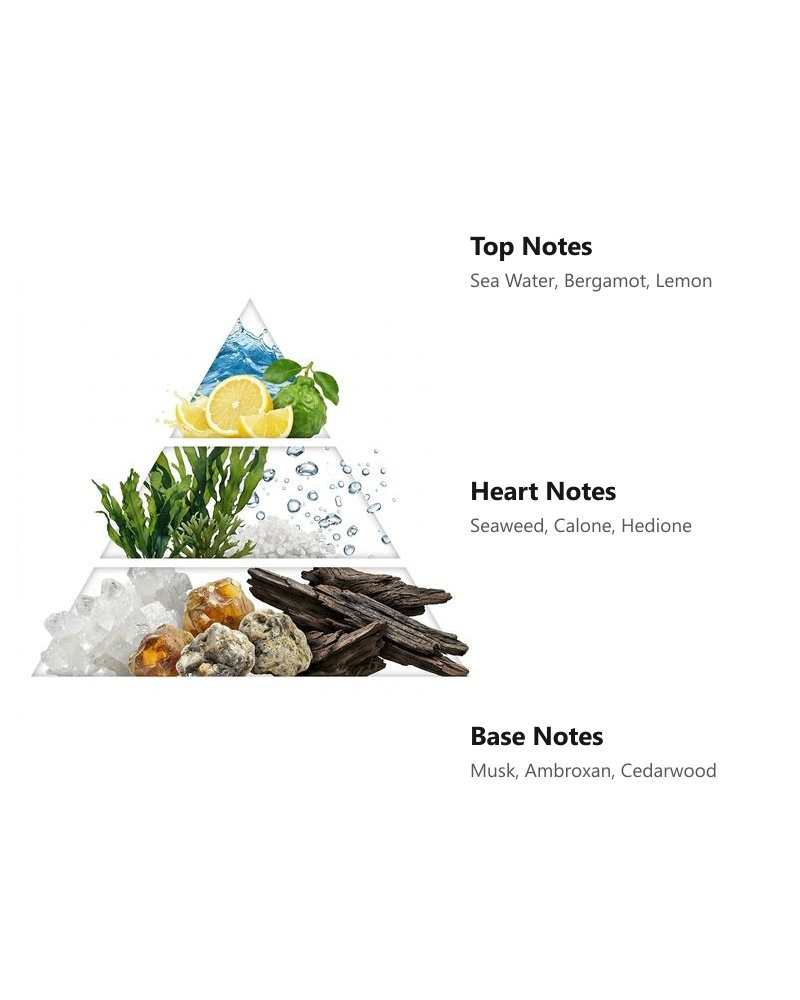
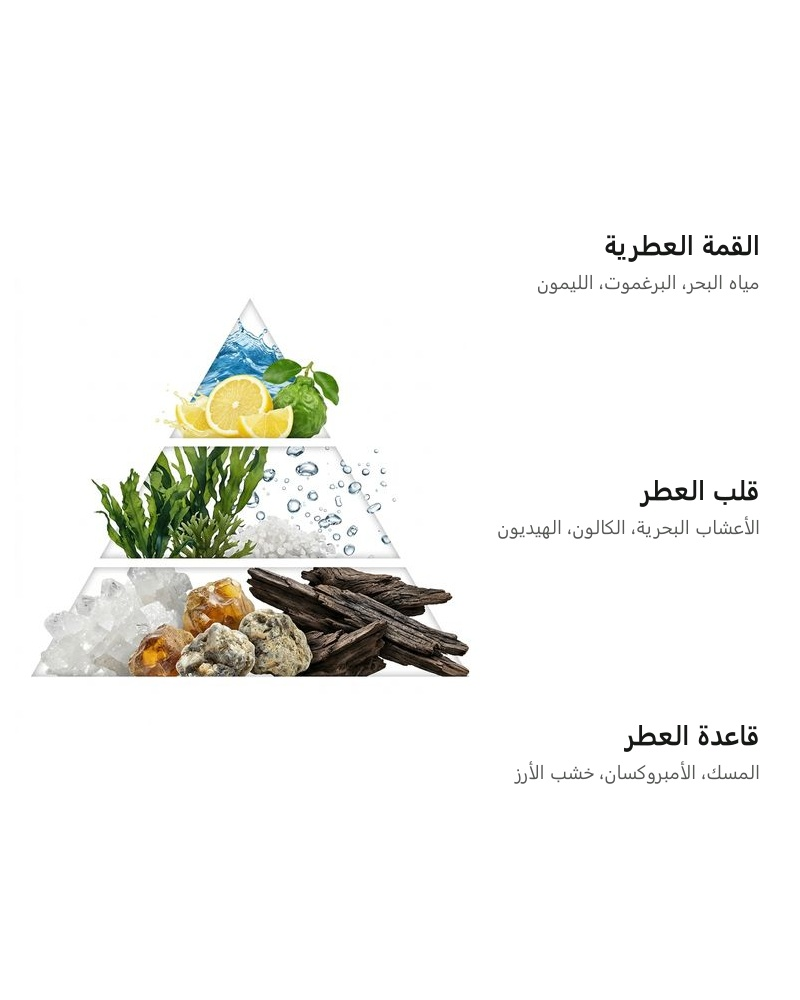
feat: localize olfactory pyramid composite images to Arabic

Changed region(s): [[0.5938, 0.465, 0.9688, 0.558], [0.5938, 0.217, 0.9375, 0.31], [0.5938, 0.713, 0.9688, 0.806]]

diff --git a/scripts/generate-pyramids.js b/scripts/generate-pyramids.js
@@ -6,113 +6,119 @@ const products = [
   {
     slug: 'fortis-rex',
     sourceImg: 'public/pyramids/fortis-rex.jpg',
-    topNotes: 'Sea Notes, Grapefruit, Mandarin',
-    heartNotes: 'Bay Leaf, Jasmine',
-    baseNotes: 'Ambergris, Guaiac Wood, Oakmoss',
+    topNotes: 'نسيم البحر، الجريب فروت، المندرين',
+    heartNotes: 'ورق الغار، الياسمين',
+    baseNotes: 'العنبر الأشهب، خشب الغاياك، البلوط',
   },
   {
     slug: 'sultan-dore',
     sourceImg: 'public/pyramids/sultan-dore.jpg',
-    topNotes: 'Pineapple, Grapefruit, Bergamot',
-    heartNotes: 'Cedarwood, Patchouli, Jasmine',
-    baseNotes: 'Oakmoss, Dry Woody Notes',
+    topNotes: 'الأناناس، الجريب فروت، البرغموت',
+    heartNotes: 'خشب الأرز، الباتشولي، الياسمين',
+    baseNotes: 'طحلب البلوط، الأخشاب الجافة',
   },
   {
     slug: 'marin-bleu',
     sourceImg: 'public/pyramids/marin-bleu.jpg',
-    topNotes: 'Sea Water, Bergamot, Lemon',
-    heartNotes: 'Seaweed, Calone, Hedione',
-    baseNotes: 'Musk, Ambroxan, Cedarwood',
+    topNotes: 'مياه البحر، البرغموت، الليمون',
+    heartNotes: 'الأعشاب البحرية، الكالون، الهيديون',
+    baseNotes: 'المسك، الأمبروكسان، خشب الأرز',
   },
   {
     slug: 'frost-line',
     sourceImg: 'public/pyramids/frost-line.jpg',
-    topNotes: 'Black Currant, Citron, Mint, Lemon',
-    heartNotes: 'Basil, Rose, Coriander',
-    baseNotes: 'Dates, Fig, Ambrette',
+    topNotes: 'الكشمش الأسود، الأترج، النعناع',
+    heartNotes: 'الريحان، الورد، الكزبرة',
+    baseNotes: 'التمر، التين، بذور الأمبريت',
   },
   {
     slug: 'blanc-pur',
     sourceImg: 'public/pyramids/blanc-pur.jpg',
-    topNotes: 'Grapefruit, Rosemary, Cardamom',
-    heartNotes: 'Tuberose, Ylang-Ylang',
-    baseNotes: 'Suede, Leather, Cedarwood',
+    topNotes: 'الجريب فروت، إكليل الجبل، الهيل',
+    heartNotes: 'مسك الروم، الإيلنغ',
+    baseNotes: 'جلد الشامواه، خشب الأرز',
   },
   {
     slug: 'mangue-epicee',
     sourceImg: 'public/pyramids/mangue-epicee.jpg',
-    topNotes: 'Mango, Lemon, Ginger, Berries',
-    heartNotes: 'Coumarin, Jasmine, Dry Woods',
-    baseNotes: 'Amber, Agarwood (Oud), Musk',
+    topNotes: 'المانجو، الليمون، الزنجبيل، التوت',
+    heartNotes: 'الكومارين، الياسمين، الأخشاب',
+    baseNotes: 'العنبر، خشب العود، المسك',
   },
 ];
 
-async function generateSinglePyramidImage(p) {
+async function generateArabicPyramids() {
   const width = 800;
   const height = 1000;
 
-  // Resize pyramid to fit left side with clean white background
-  const pyramidResized = await sharp(p.sourceImg)
-    .resize(470, 780, { fit: 'contain', background: { r: 255, g: 255, b: 255, alpha: 1 } })
-    .toBuffer();
+  for (const p of products) {
+    const pyramidResized = await sharp(p.sourceImg)
+      .resize(470, 780, { fit: 'contain', background: { r: 255, g: 255, b: 255, alpha: 1 } })
+      .toBuffer();
 
-  const svgText = `
-  <svg width="${width}" height="${height}" viewBox="0 0 ${width} ${height}" xmlns="http://www.w3.org/2000/svg">
-    <style>
-      .tier-title {
-        font-family: 'Segoe UI', -apple-system, BlinkMacSystemFont, Roboto, sans-serif;
-        font-size: 26px;
-        font-weight: 700;
-        fill: #161816;
-        letter-spacing: -0.2px;
-      }
-      .tier-notes {
-        font-family: 'Segoe UI', -apple-system, BlinkMacSystemFont, Roboto, sans-serif;
-        font-size: 19px;
-        font-weight: 400;
-        fill: #555855;
-        line-height: 1.4;
-      }
-    </style>
+    const svgText = `
+    <svg width="${width}" height="${height}" viewBox="0 0 ${width} ${height}" xmlns="http://www.w3.org/2000/svg">
+      <style>
+        .tier-title {
+          font-family: 'Segoe UI', Tahoma, Arial, sans-serif;
+          font-size: 27px;
+          font-weight: 700;
+          fill: #161816;
+          text-anchor: end;
+        }
+        .tier-notes {
+          font-family: 'Segoe UI', Tahoma, Arial, sans-serif;
+          font-size: 19px;
+          font-weight: 400;
+          fill: #555855;
+          text-anchor: end;
+        }
+      </style>
 
-    <!-- Top Notes Tier -->
-    <g transform="translate(470, 255)">
-      <text class="tier-title" x="0" y="0">Top Notes</text>
-      <text class="tier-notes" x="0" y="32">${escapeXml(p.topNotes)}</text>
-    </g>
+      <!-- Top Notes -->
+      <g transform="translate(760, 255)">
+        <text class="tier-title" x="0" y="0">القمة العطرية</text>
+        <text class="tier-notes" x="0" y="34">${escapeXml(p.topNotes)}</text>
+      </g>
 
-    <!-- Heart Notes Tier -->
-    <g transform="translate(470, 500)">
-      <text class="tier-title" x="0" y="0">Heart Notes</text>
-      <text class="tier-notes" x="0" y="32">${escapeXml(p.heartNotes)}</text>
-    </g>
+      <!-- Heart Notes -->
+      <g transform="translate(760, 500)">
+        <text class="tier-title" x="0" y="0">قلب العطر</text>
+        <text class="tier-notes" x="0" y="34">${escapeXml(p.heartNotes)}</text>
+      </g>
 
-    <!-- Base Notes Tier -->
-    <g transform="translate(470, 745)">
-      <text class="tier-title" x="0" y="0">Base Notes</text>
-      <text class="tier-notes" x="0" y="32">${escapeXml(p.baseNotes)}</text>
-    </g>
-  </svg>
-  `;
+      <!-- Base Notes -->
+      <g transform="translate(760, 745)">
+        <text class="tier-title" x="0" y="0">قاعدة العطر</text>
+        <text class="tier-notes" x="0" y="34">${escapeXml(p.baseNotes)}</text>
+      </g>
+    </svg>
+    `;
 
-  const outPath = path.join(__dirname, '..', 'public', 'pyramids', `${p.slug}-composite.jpg`);
+    const outPath = path.join(__dirname, '..', 'public', 'pyramids', `${p.slug}-composite.jpg`);
 
-  await sharp({
-    create: {
-      width,
-      height,
-      channels: 3,
-      background: { r: 255, g: 255, b: 255 },
-    },
-  })
-    .composite([
-      { input: pyramidResized, top: 110, left: 15 },
-      { input: Buffer.from(svgText), top: 0, left: 0 },
-    ])
-    .jpeg({ quality: 95 })
-    .toFile(outPath);
+    await sharp({
+      create: {
+        width,
+        height,
+        channels: 3,
+        background: { r: 255, g: 255, b: 255 },
+      },
+    })
+      .composite([
+        { input: pyramidResized, top: 110, left: 15 },
+        { input: Buffer.from(svgText), top: 0, left: 0 },
+      ])
+      .jpeg({ quality: 95 })
+      .toFile(outPath);
 
-  console.log(`Generated: ${outPath}`);
+    console.log(`Generated Arabic: ${outPath}`);
+  }
+
+  const mbSrc = path.join(__dirname, '..', 'public', 'pyramids', 'marin-bleu-composite.jpg');
+  const mbDst = path.join(__dirname, '..', 'public', 'pyramids', 'marin-blue-composite.jpg');
+  fs.copyFileSync(mbSrc, mbDst);
+  console.log('All Arabic composite images generated successfully!');
 }
 
 function escapeXml(str) {
@@ -127,14 +133,4 @@ function escapeXml(str) {
   });
 }
 
-async function run() {
-  for (const p of products) {
-    await generateSinglePyramidImage(p);
-  }
-  const mbSrc = path.join(__dirname, '..', 'public', 'pyramids', 'marin-bleu-composite.jpg');
-  const mbDst = path.join(__dirname, '..', 'public', 'pyramids', 'marin-blue-composite.jpg');
-  fs.copyFileSync(mbSrc, mbDst);
-  console.log('All composite images generated successfully!');
-}
-
-run().catch(console.error);
+generateArabicPyramids().catch(console.error);
